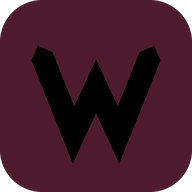
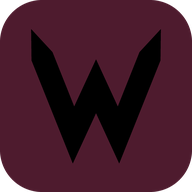
Puntas superiores en daga + paleta de la app en dark cherry
- W: puntas superiores afiladas tipo daga (TIP extendido)
- Re-tematizar toda la app de verde a dark cherry (#4E1B2E / acento #F43F5E):
  variables raíz, badges, heatmap, calendario, materias, manifest, theme-color
- Ignorar .claude/ y __pycache__/

Changed region(s): [[0.7188, 0.1562, 0.8438, 0.3125], [0.1562, 0.1562, 0.2812, 0.3125]]

diff --git a/index.html b/index.html
@@ -6,7 +6,7 @@
 <meta name="apple-mobile-web-app-capable" content="yes">
 <meta name="apple-mobile-web-app-status-bar-style" content="black">
 <meta name="apple-mobile-web-app-title" content="WzLab">
-<meta name="theme-color" content="#080D0A">
+<meta name="theme-color" content="#0C0608">
 <link rel="icon" type="image/svg+xml" href="wzlab-icon.svg">
 <link rel="icon" type="image/png" sizes="512x512" href="wzlab-icon-512.png">
 <link rel="apple-touch-icon" href="apple-touch-icon.png">
@@ -15,12 +15,12 @@
 <style>
 *{margin:0;padding:0;box-sizing:border-box;-webkit-tap-highlight-color:transparent}
 :root{
-  --bg:#080D0A;--s1:#0E1710;--s2:#142019;--border:#1C2E20;
-  --green:#22C55E;--gdim:#16A34A;--glow:#22C55E18;
+  --bg:#0C0608;--s1:#170B11;--s2:#21121A;--border:#3A2230;
+  --green:#F43F5E;--gdim:#BE123C;--glow:#F43F5E18;
   --amber:#F59E0B;--red:#EF4444;--blue:#60A5FA;--purple:#A78BFA;--pink:#F472B6;--teal:#2DD4BF;--orange:#FB923C;
-  --txt:#E4F0E6;--t2:#6B9B70;--t3:#2E4A32;
+  --txt:#F3E6EA;--t2:#A87C8A;--t3:#5A3343;
   --st:env(safe-area-inset-top,0px);--sb:env(safe-area-inset-bottom,0px);
-  --hover:#1E3025;
+  --hover:#2E1822;
 }
 html,body{height:100%;background:var(--bg);color:var(--txt);font-family:-apple-system,BlinkMacSystemFont,'SF Pro Display',sans-serif;overflow:hidden;-webkit-font-smoothing:antialiased;touch-action:manipulation;-webkit-text-size-adjust:100%}
 #app{display:flex;flex-direction:column;height:100svh;max-width:430px;margin:0 auto;position:relative;overflow:hidden}
@@ -85,7 +85,7 @@ html,body{height:100%;background:var(--bg);color:var(--txt);font-family:-apple-s
 .empty svg{width:40px;height:40px;margin:0 auto 10px;display:block;stroke:var(--t3);fill:none;stroke-width:1.2}
 .empty p{font-size:14px;line-height:1.5}
 .chip{font-size:10px;font-weight:700;letter-spacing:.4px;padding:3px 8px;border-radius:99px}
-.badge-green{background:#22C55E18;color:var(--green)}
+.badge-green{background:#F43F5E18;color:var(--green)}
 .badge-amber{background:#F59E0B18;color:var(--amber)}
 .badge-red{background:#EF444418;color:var(--red)}
 .badge-blue{background:#60A5FA18;color:var(--blue)}
@@ -121,7 +121,7 @@ html,body{height:100%;background:var(--bg);color:var(--txt);font-family:-apple-s
 .pc.p1{background:#EF444420;border-color:var(--red);color:var(--red)}
 .pc.p2{background:#F59E0B20;border-color:var(--amber);color:var(--amber)}
 .pc.p3{background:#60A5FA20;border-color:var(--blue);color:var(--blue)}
-.pc.p4{background:#3D6042;border-color:var(--t2);color:var(--t2)}
+.pc.p4{background:#432836;border-color:var(--t2);color:var(--t2)}
 .task-card{background:var(--s2);border:1px solid var(--border);border-radius:14px;margin-bottom:8px;overflow:hidden;animation:up .2s ease}
 .task-main{display:flex;align-items:center;gap:10px;padding:12px 12px 12px 12px;cursor:pointer}
 .task-main:active{background:var(--s1)}
@@ -168,14 +168,14 @@ html,body{height:100%;background:var(--bg);color:var(--txt);font-family:-apple-s
 .heatmap::-webkit-scrollbar{display:none}
 .hm-col{display:flex;flex-direction:column;gap:3px}
 .hm-cell{width:11px;height:11px;border-radius:2px;background:var(--border);transition:background .3s;flex-shrink:0}
-.hm-cell.d1{background:#14532D}
-.hm-cell.d2{background:#15803D}
-.hm-cell.d3{background:#16A34A}
+.hm-cell.d1{background:#4D1A2A}
+.hm-cell.d2{background:#8A1E3E}
+.hm-cell.d3{background:#C21E4C}
 .hm-cell.d4{background:var(--green)}
 .hm-cell.today{outline:2px solid var(--amber);outline-offset:1px}
 .habit-skip-btn{background:none;border:1px solid var(--border);border-radius:7px;padding:4px 10px;color:var(--t2);font-size:11px;font-weight:500;cursor:pointer;font-family:inherit;transition:all .14s}
 .habit-skip-btn.skipped{background:#F59E0B15;border-color:var(--amber);color:var(--amber)}
-.time-badge{font-size:10px;font-weight:700;letter-spacing:.4px;padding:2px 7px;border-radius:99px;background:#22C55E12;color:var(--green)}
+.time-badge{font-size:10px;font-weight:700;letter-spacing:.4px;padding:2px 7px;border-radius:99px;background:#F43F5E12;color:var(--green)}
 
 /* ── WORKOUT ── */
 .template-card{background:var(--s2);border:1px solid var(--border);border-radius:14px;padding:14px;margin-bottom:10px}
@@ -248,7 +248,7 @@ html,body{height:100%;background:var(--bg);color:var(--txt);font-family:-apple-s
 /* ── FINANCE ── */
 .fin-type-row{display:flex;gap:6px;margin-bottom:10px}
 .ft-btn{flex:1;padding:9px;border-radius:10px;border:1px solid var(--border);background:transparent;color:var(--t2);font-size:13px;font-weight:600;cursor:pointer;font-family:inherit;transition:all .14s}
-.ft-btn.income.on{border-color:var(--green);background:#22C55E20;color:var(--green)}
+.ft-btn.income.on{border-color:var(--green);background:#F43F5E20;color:var(--green)}
 .ft-btn.expense.on{border-color:var(--red);background:#EF444420;color:var(--red)}
 .tx-item{display:flex;align-items:center;gap:10px;padding:10px 0;border-bottom:1px solid var(--border)}
 .tx-item:last-child{border:none}
@@ -579,7 +579,7 @@ html,body{height:100%;background:var(--bg);color:var(--txt);font-family:-apple-s
 // ════════════════════════════════════
 const CATS=['🍕','🚗','🏠','💊','🎮','📚','👗','☕','✈','💪','💰','💼','🎁','🏥','🛒','📱','🎵','⚡','🐾','🌿','🍺','🐶','🏋','🎓','🎯','💈','🌊','🍎'];
 const PRIO_META={p1:{label:'Urgente',color:'#EF4444'},p2:{label:'Alta',color:'#F59E0B'},p3:{label:'Normal',color:'#60A5FA'},p4:{label:'Baja',color:'#6B9B70'}};
-const SUBJ_COLORS=['#22C55E','#60A5FA','#F59E0B','#A78BFA','#F472B6','#2DD4BF','#FB923C','#EF4444'];
+const SUBJ_COLORS=['#F43F5E','#60A5FA','#F59E0B','#A78BFA','#F472B6','#2DD4BF','#FB923C','#EF4444'];
 const $=id=>document.getElementById(id);
 // Fecha calendario en UTC-3 (Argentina) para un Date dado — el día "termina" a las 00:00 AR
 function isoAR(dt){return new Date(dt.getTime()-3*3600*1000).toISOString().split('T')[0];}
@@ -798,7 +798,7 @@ function renderHabitCalendar(){
     const done=(allLogs[str]||[]).length;
     const pct=totalHabits>0?done/totalHabits:0;
     const isToday=str===today();
-    const intensity=pct===0?'':pct<0.34?'#14532D':pct<0.67?'#16A34A':'#22C55E';
+    const intensity=pct===0?'':pct<0.34?'#6A1E36':pct<0.67?'#B01E48':'#F43F5E';
     cells+=`<div onclick="showCalDay('${str}')" style="aspect-ratio:1;border-radius:8px;background:${intensity||'var(--s2)'};border:${isToday?'2px solid var(--amber)':'1px solid var(--border)'};display:flex;flex-direction:column;align-items:center;justify-content:center;cursor:pointer;transition:all .15s">
       <div style="font-size:12px;font-weight:${isToday?'700':'400'};color:${isToday?'var(--amber)':'var(--t2)'}">${d}</div>
       ${done>0?`<div style="font-size:9px;color:${pct===1?'var(--green)':'var(--txt)'};font-weight:600">${done}/${totalHabits}</div>`:''}
@@ -822,9 +822,9 @@ function renderHabitCalendar(){
     </div>
     <div style="display:grid;grid-template-columns:repeat(7,1fr);gap:4px;margin-bottom:20px">${cells}</div>
     <div style="display:flex;gap:8px;justify-content:center;margin-bottom:16px;font-size:11px;color:var(--t2)">
-      <span style="display:flex;align-items:center;gap:4px"><span style="width:10px;height:10px;background:#14532D;border-radius:3px;display:inline-block"></span>1–33%</span>
-      <span style="display:flex;align-items:center;gap:4px"><span style="width:10px;height:10px;background:#16A34A;border-radius:3px;display:inline-block"></span>34–66%</span>
-      <span style="display:flex;align-items:center;gap:4px"><span style="width:10px;height:10px;background:#22C55E;border-radius:3px;display:inline-block"></span>67–100%</span>
+      <span style="display:flex;align-items:center;gap:4px"><span style="width:10px;height:10px;background:#6A1E36;border-radius:3px;display:inline-block"></span>1–33%</span>
+      <span style="display:flex;align-items:center;gap:4px"><span style="width:10px;height:10px;background:#B01E48;border-radius:3px;display:inline-block"></span>34–66%</span>
+      <span style="display:flex;align-items:center;gap:4px"><span style="width:10px;height:10px;background:#F43F5E;border-radius:3px;display:inline-block"></span>67–100%</span>
     </div>
     <div class="sl">Cumplimiento por hábito</div>
     ${habitStats.length?`<div class="habit-stat-row">${habitStats.map(h=>`

diff --git a/gen_icon.py b/gen_icon.py
@@ -10,7 +10,7 @@ radius = 112 * SS
 # --- W afilada estilo Zenix: polilínea con offset perpendicular, miter y puntas ---
 P = [(112, 150), (196, 360), (256, 230), (316, 360), (400, 150)]  # nodos centro
 HW = 30        # media-anchura del trazo
-TIP = 30       # cuánto sobresalen las puntas de las puntas superiores
+TIP = 78       # cuánto sobresalen las puntas de las puntas superiores
 MITER_MAX = 120
 
 def unit(ax, ay, bx, by):
